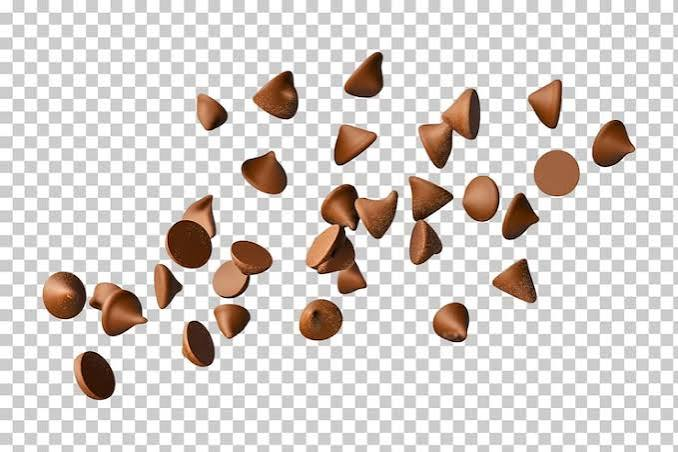
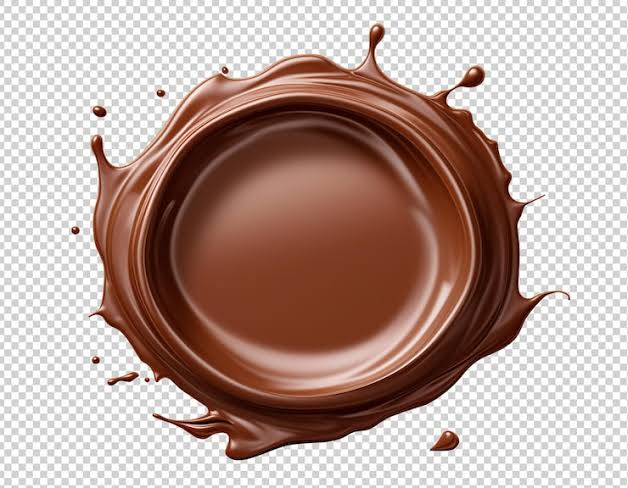
Me falta cambiar la sección de productos (texto de dark a cream)

diff --git a/js/script.js b/js/script.js
@@ -198,16 +198,28 @@ function createChocolate() {
     chocolate.style.left =
         Math.random() * 100 + "%";
 
-    // Tamaño aleatorio
-    const size =
-        7 + Math.random() * 10;
+    // Elegimos un tamaño aleatorio
+    const size = 8 + Math.random() * 12;
+    
+    chip.style.width = size + "px";
+    chip.style.height = size * 0.7 + "px";
+    
+    // Cada chip tiene una forma ligeramente diferente
+    const rotation = Math.random() * 360;
+    
+    chip.style.transform =
+    `rotate(${rotation}deg)`;
 
-    chocolate.style.width =
-        size + "px";
-
-    chocolate.style.height =
-        size * 0.7 + "px";
-
+    const chocolateColors = [
+        "#4B291D",
+        "#5A3020",
+        "#713501"
+    ];
+    
+    chip.style.background =
+        chocolateColors[
+            Math.floor(Math.random() * chocolateColors.length)
+        ];
     // Velocidad aleatoria
     chocolate.style.animationDuration =
         2 + Math.random() * 3 + "s";

diff --git a/css/style.css b/css/style.css
@@ -82,7 +82,7 @@ img {
 
 .hero-small,
 .section-label {
-    color: var(--dark);
+    color: var(--cream);
     letter-spacing: 3px;
     font-size: 24px;
 }
@@ -579,8 +579,8 @@ img {
     position: absolute;
     top: -50px;
 
-    width: 35px;
-    height: 35px;
+    width: 100px;
+    height: 100px;
 
     background-image: url("../img/chocolate-chip.png");
     background-size: contain;

diff --git a/index.html b/index.html
@@ -391,12 +391,12 @@
 
             <div>
 
-                <span>“</span>
+                <span></span>
 
                 <h2>
-                    Los mejores sabores
+                    "Los mejores sabores
                     nacen de las historias
-                    que se comparten.
+                    que se comparten."
                 </h2>
 
                 <p>
